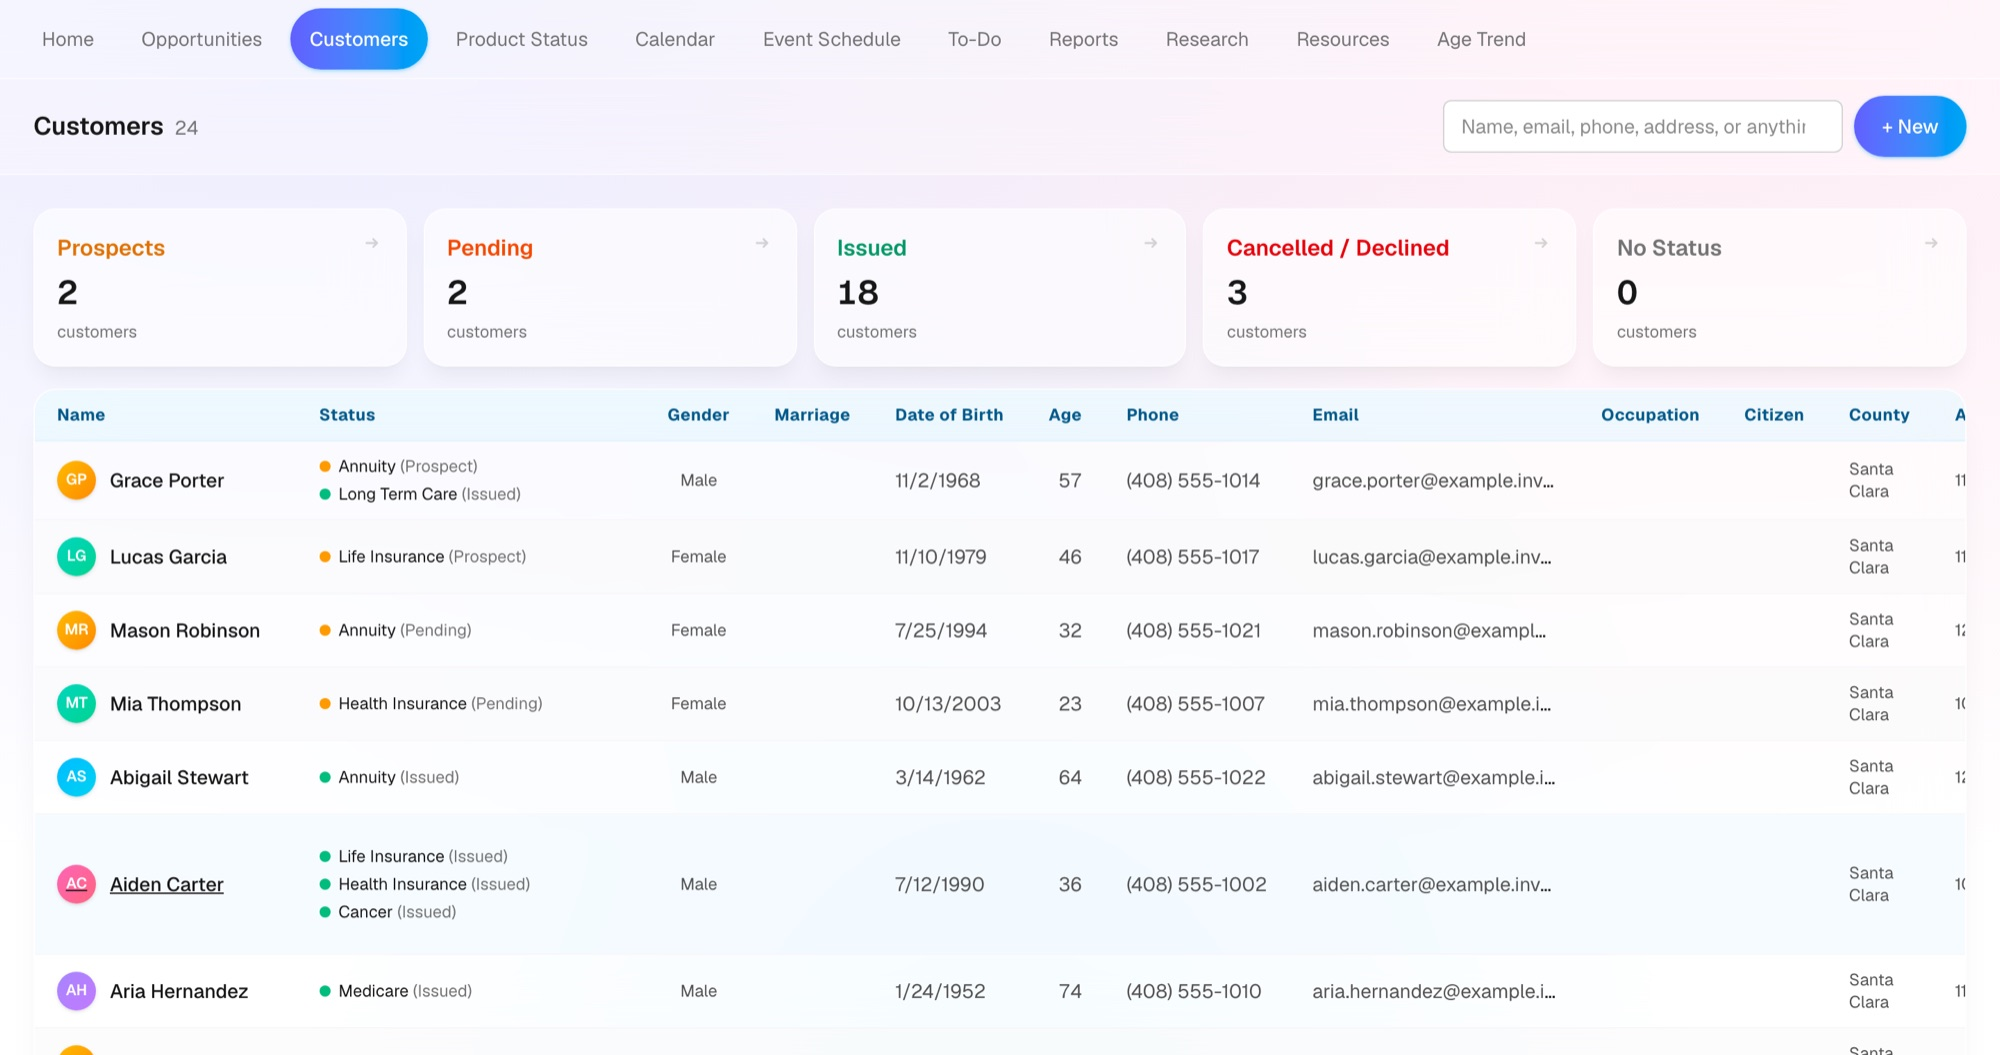
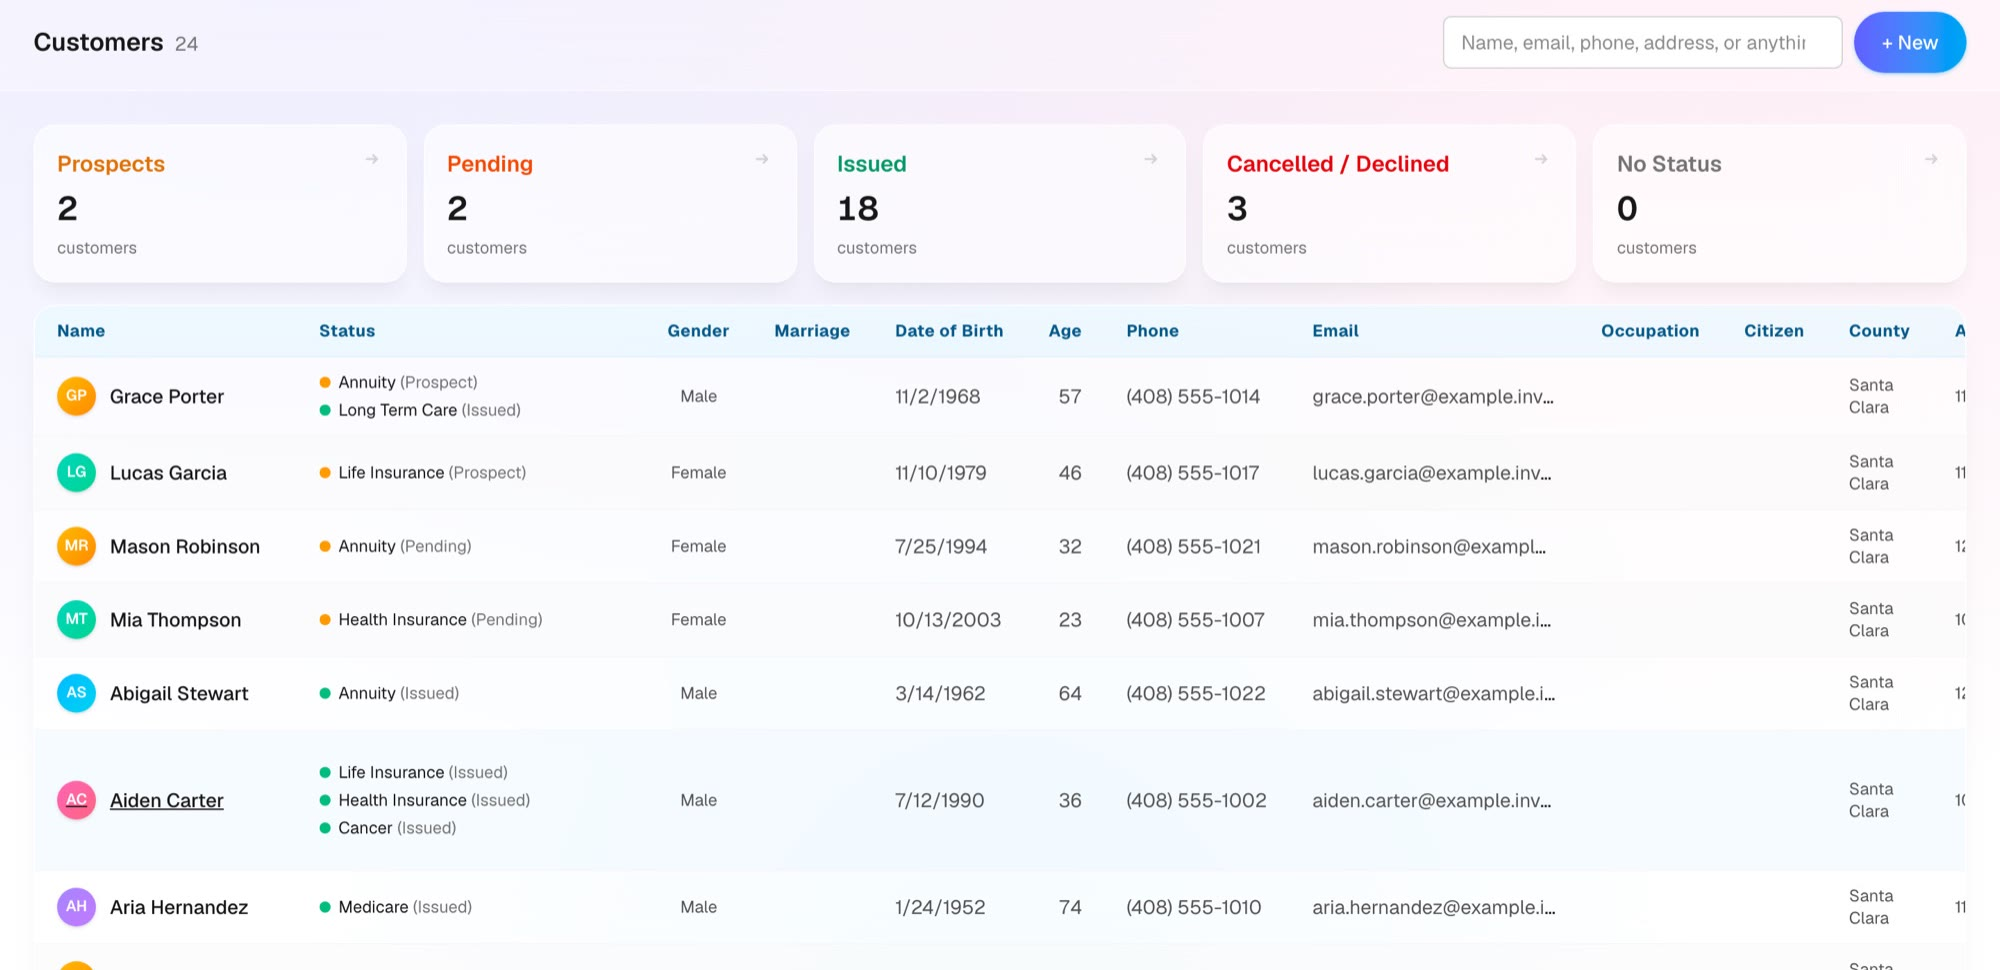
Crop the app's tab bar off the product screenshots (#25)
TK: don't show every menu tab; it gives away the app's structure.

diff --git a/index.html b/index.html
@@ -726,7 +726,7 @@
         <div class="hero-stage">
           <div class="shot">
             <div class="shot-bar" aria-hidden="true"><span></span><span></span><span></span></div>
-            <img src="assets/product/customers.jpg" width="2000" height="1055" fetchpriority="high"
+            <img src="assets/product/customers.jpg" width="2000" height="970" fetchpriority="high"
                  alt="The customer list: counts of prospects, pending, issued and cancelled clients above a table of clients with each policy and its status" />
           </div>
           <div class="shot-phone">
@@ -765,7 +765,7 @@
           </div>
           <div class="shot">
             <div class="shot-bar" aria-hidden="true"><span></span><span></span><span></span></div>
-            <img src="assets/product/home.jpg" loading="lazy" width="2000" height="561"
+            <img src="assets/product/home.jpg" loading="lazy" width="2000" height="476"
                  alt="The CRM's Today screen: an overdue health-insurance renewal follow-up, an annuity task due today, this week's follow-ups, and the Alerts tab with one new alert" />
           </div>
         </div>
@@ -781,7 +781,7 @@
           </div>
           <div class="shot">
             <div class="shot-bar" aria-hidden="true"><span></span><span></span><span></span></div>
-            <img src="assets/product/detail.jpg" loading="lazy" width="2000" height="1000"
+            <img src="assets/product/detail.jpg" loading="lazy" width="2000" height="916"
                  alt="One client's page: profile on the left, and separate cancer, health insurance and life insurance policy tables on the right" />
           </div>
         </div>
